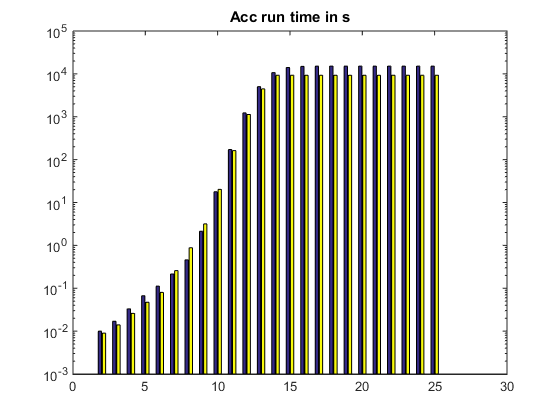
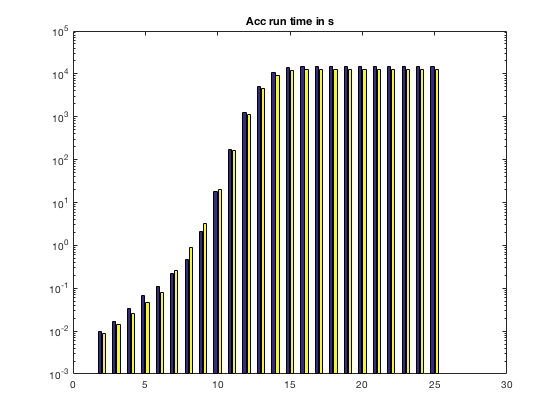
added VSC Output

Changed region(s): [[0.0607, 0.031, 0.9411, 0.9286]]

diff --git a/Paper/ImprovingAlgGraph.m b/Paper/ImprovingAlgGraph.m
@@ -1,13 +1,16 @@
+close all
+
 X = [4,5,6,7,8,9]
 Y1 = [16.93, 25.05, 82.44, 141.48, 6680.31, 15135358.01]
 Y2 = [17.33, 24.48, 65.48, 258.47, 6663.35, 0]
 Y3 = [19.44, 24.28, 70.03, 343.58, 1477.05, 0]
-Y4 = [20.62, 24.06, 67.50, 259.51, 7785.14, 0]
+Y4 = [20.62, 24.06, 67.50, 259.51, 7785.14, 12854614.299525]
+Y5 = [10.09, 25.75, 66.82, 254.44, 6797.80, 0]
 
-T = [Y1 ; Y2 ; Y3 ; Y4]
+T = [Y1 ; Y2 ; Y3 ; Y4 ; Y5]
 
 
-
+figure
 bar(X, T')
 set(gca,'YScale','log')
-legend('Vorige', 'Job20281418 - 8ch', 'Job20281449 - 1024', 'Job20281461 - 256')
+legend('Vorige', 'Job20281418 - 8ch', 'Job20281449 - 1024', 'Job20281461 - 256', 'Job20281753 - 256','Location','northwest')

diff --git a/Paper/ImprovingAlgGraph_ch9.m b/Paper/ImprovingAlgGraph_ch9.m
@@ -1,10 +1,10 @@
 close all
 
 X = 2:25
-n = 13
+n = 21
 Y2 = zeros([1 24])
 Y1 = [10, 7, 16, 34, 45, 103, 245, 1669, 15624, 154239, 1062174, 3797288, 5661054, 3404493, 898401, 126276, 12442, 976, 68, 10, 3, 1, 0, 0]
-Y2(1:n) = [9, 5, 12, 21, 33, 178, 625, 2292, 17111, 141878, 966757, 3337937, 4851132]
+Y2(1:n) = [9, 5, 12, 21, 33, 178, 625, 2292, 17111, 141878, 966757, 3337937, 4851132, 2699099, 717380, 108455, 10866, 886, 61, 15, 3]
 
 
 T = [Y1 ; Y2]
